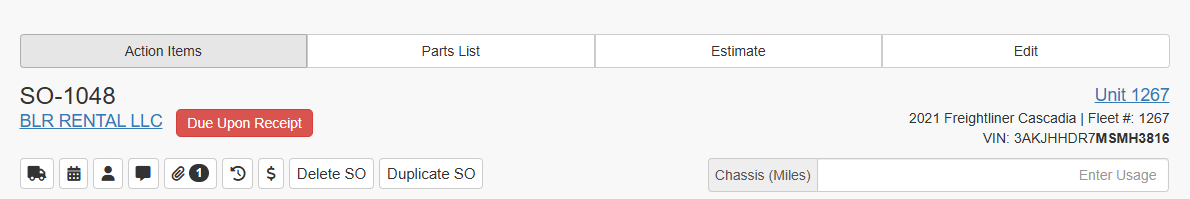
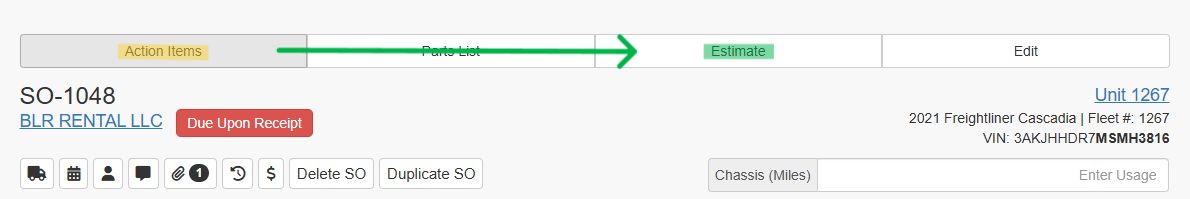
add-photo

Changed region(s): [[0.2176, 0.1809, 0.5597, 0.3317], [0.0933, 0.2111, 0.1866, 0.3317], [0.5908, 0.2111, 0.6529, 0.3015]]

diff --git a/index.html b/index.html
@@ -315,6 +315,22 @@
             </p>
             <img src="images/parts-diagnose.png" class="tutorial-img">
 
+            <p>You always need to add a photo inspection, to do this, you can fill the document <strong>Photo Inspection</strong>, available <a href="https://docs.google.com/document/d/1t2xmqro9nC5RXjarUCvg-5iU2k_2-eX5/edit?usp=sharing&ouid=112671001882680266609&rtpof=true&sd=true" target="_blank" rel="noopener noreferrer">here</a>.</p>
+            <p class="subpasso" style="font-size: 0.9em; margin-top: 0.25em;">Você sempre precisa adicionar uma inspeção fotográfica, para isso, você pode preencher o documento <strong>Photo Inspection</strong>, disponível <a href="https://docs.google.com/document/d/1t2xmqro9nC5RXjarUCvg-5iU2k_2-eX5/edit?usp=sharing&ouid=112671001882680266609&rtpof=true&sd=true" target="_blank" rel="noopener noreferrer">aqui</a>.</p> 
+            
+            <p class="passo">After uploading the photos, save the document as <strong>PDF</strong>.</p>
+            <p class="subpasso" style="font-size: 0.9em; margin-top: 0.25em;">Após o upload das fotos, salve o documento como <strong>PDF</strong>.</p>  
+
+            <p class="passo">Then, come back to Full Bay and click in the <strong>attachments</strong> section.</p>
+            <p class="subpasso" style="font-size: 0.9em; margin-top: 0.25em;">Em seguida, volte ao Full Bay e clique na seção <strong>attachments</strong>.</p>
+            <img src="images/photo-inspection.png" class="tutorial-img">
+
+            <p class="passo">Click on <strong>Upload</strong> and select the <strong>PDF</strong> file that you saved.</p>
+            <p class="subpasso" style="font-size: 0.9em; margin-top: 0.25em;">Clique em <strong>Upload</strong> e selecione o arquivo <strong>PDF</strong> que você salvou.</p>
+            <img src="images/photo-inspection-2.png" class="tutorial-img">
+
+
+
 </section>
 
 <hr>
@@ -340,6 +356,7 @@
                 <p class="subpasso" style="font-size: 0.9em; margin-top: 0.25em;">
                     No FullBay, você pode ver este título. Todas as coisas que fizemos até agora estão em: <strong>Action Itens</strong>.
                 </p>
+                <img src="images/cab..png" class="tutorial-img">
                 <p>
                     Now we will go to the <strong>Estimate</strong> section, where we can see all the parts and services that we added in the <strong>Action Itens</strong> section.
                 </p>
